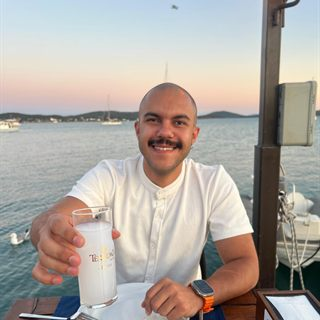
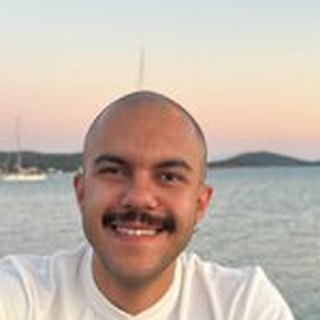
Fotoğraf düzeltmeleri; Anadolu Evrensel Ankara'da
- Emre Kaan Kocaman: içki bardağı kadraj dışında kalacak şekilde kırpıldı
- Asya Büyükerk: yüz kadrajda daha büyük ve tam
- Anadolu Evrensel Rotaract Kulübü'nün şehri Ankara olarak düzeltildi

diff --git a/js/data.js b/js/data.js
@@ -74,7 +74,7 @@ window.KULUPLER = [
     toplanti: T("Perşembe", "19:30", "Suit Ofis", "Ayın 2. ve 4. Perşembesi", { dil: "Türkçe" }) },
   { id: "cankaya", ad: "Çankaya Rotaract Kulübü", il: "Ankara", ilce: "Çankaya", grup: "1", baskan: "Fatih Acemoğlu", baskanFoto: "assets/foto/fatih-acemoglu.jpg", eposta: "fatihacemoglu1@gmail.com",
     toplanti: T("Perşembe", "19:30", "Workinton Next Level", "", { dil: "Türkçe", adres: "Kızılırmak Mah., 06510 Çankaya/Ankara" }) },
-  { id: "anadolu-evrensel", ad: "Anadolu Evrensel Rotaract Kulübü", il: "Eskişehir", ilce: "", grup: "1", baskan: "Zeynep Su Öncel", baskanFoto: "assets/foto/zeynep-su-oncel.jpg", eposta: "zeynepsuoncel@gmail.com",
+  { id: "anadolu-evrensel", ad: "Anadolu Evrensel Rotaract Kulübü", il: "Ankara", ilce: "", grup: "1", baskan: "Zeynep Su Öncel", baskanFoto: "assets/foto/zeynep-su-oncel.jpg", eposta: "zeynepsuoncel@gmail.com",
     toplanti: T("Pazar", "20:30", "Çevrim içi (Zoom)", "", { format: "Çevrim içi (Zoom)" }), instagram: "evrenselrotaract" },
 
   /* ---- 2. GRUP ---- */

diff --git a/en/index.html b/en/index.html
@@ -17,7 +17,7 @@
   <link rel="preconnect" href="https://fonts.googleapis.com">
   <link rel="preconnect" href="https://fonts.gstatic.com" crossorigin>
   <link href="https://fonts.googleapis.com/css2?family=Open+Sans:ital,wght@0,400;0,500;0,600;0,700;0,800;1,800&display=swap" rel="stylesheet">
-  <link rel="stylesheet" href="../css/style.css?v=20261122k">
+  <link rel="stylesheet" href="../css/style.css?v=20261122l">
 </head>
 <body>
 
@@ -385,10 +385,10 @@
   </div>
 </div>
 
-<script src="../js/data.js?v=20261122k"></script>
-<script src="../js/data-en.js?v=20261122k"></script>
-<script src="../js/harita.js?v=20261122k"></script>
-<script src="../js/etkinlik.js?v=20261122k"></script>
-<script src="../js/app.js?v=20261122k"></script>
+<script src="../js/data.js?v=20261122l"></script>
+<script src="../js/data-en.js?v=20261122l"></script>
+<script src="../js/harita.js?v=20261122l"></script>
+<script src="../js/etkinlik.js?v=20261122l"></script>
+<script src="../js/app.js?v=20261122l"></script>
 </body>
 </html>

diff --git a/index.html b/index.html
@@ -17,7 +17,7 @@
   <link rel="preconnect" href="https://fonts.googleapis.com">
   <link rel="preconnect" href="https://fonts.gstatic.com" crossorigin>
   <link href="https://fonts.googleapis.com/css2?family=Open+Sans:ital,wght@0,400;0,500;0,600;0,700;0,800;1,800&display=swap" rel="stylesheet">
-  <link rel="stylesheet" href="css/style.css?v=20261122k">
+  <link rel="stylesheet" href="css/style.css?v=20261122l">
 </head>
 <body>
 
@@ -385,9 +385,9 @@
   </div>
 </div>
 
-<script src="js/data.js?v=20261122k"></script>
-<script src="js/harita.js?v=20261122k"></script>
-<script src="js/etkinlik.js?v=20261122k"></script>
-<script src="js/app.js?v=20261122k"></script>
+<script src="js/data.js?v=20261122l"></script>
+<script src="js/harita.js?v=20261122l"></script>
+<script src="js/etkinlik.js?v=20261122l"></script>
+<script src="js/app.js?v=20261122l"></script>
 </body>
 </html>

diff --git a/en/konferans.html b/en/konferans.html
@@ -17,7 +17,7 @@
   <link rel="preconnect" href="https://fonts.googleapis.com">
   <link rel="preconnect" href="https://fonts.gstatic.com" crossorigin>
   <link href="https://fonts.googleapis.com/css2?family=Open+Sans:ital,wght@0,400;0,500;0,600;0,700;0,800;1,800&display=swap" rel="stylesheet">
-  <link rel="stylesheet" href="../css/style.css?v=20261122k">
+  <link rel="stylesheet" href="../css/style.css?v=20261122l">
 </head>
 <body data-org="konferans">
 
@@ -111,8 +111,8 @@
   </div>
 </div>
 
-<script src="../js/data.js?v=20261122k"></script>
-<script src="../js/data-en.js?v=20261122k"></script>
-<script src="../js/app.js?v=20261122k"></script>
+<script src="../js/data.js?v=20261122l"></script>
+<script src="../js/data-en.js?v=20261122l"></script>
+<script src="../js/app.js?v=20261122l"></script>
 </body>
 </html>

diff --git a/en/asamble.html b/en/asamble.html
@@ -17,7 +17,7 @@
   <link rel="preconnect" href="https://fonts.googleapis.com">
   <link rel="preconnect" href="https://fonts.gstatic.com" crossorigin>
   <link href="https://fonts.googleapis.com/css2?family=Open+Sans:ital,wght@0,400;0,500;0,600;0,700;0,800;1,800&display=swap" rel="stylesheet">
-  <link rel="stylesheet" href="../css/style.css?v=20261122k">
+  <link rel="stylesheet" href="../css/style.css?v=20261122l">
 </head>
 <body data-org="asamble">
 
@@ -111,8 +111,8 @@
   </div>
 </div>
 
-<script src="../js/data.js?v=20261122k"></script>
-<script src="../js/data-en.js?v=20261122k"></script>
-<script src="../js/app.js?v=20261122k"></script>
+<script src="../js/data.js?v=20261122l"></script>
+<script src="../js/data-en.js?v=20261122l"></script>
+<script src="../js/app.js?v=20261122l"></script>
 </body>
 </html>

diff --git a/en/kulupler.html b/en/kulupler.html
@@ -17,7 +17,7 @@
   <link rel="preconnect" href="https://fonts.googleapis.com">
   <link rel="preconnect" href="https://fonts.gstatic.com" crossorigin>
   <link href="https://fonts.googleapis.com/css2?family=Open+Sans:ital,wght@0,400;0,500;0,600;0,700;0,800;1,800&display=swap" rel="stylesheet">
-  <link rel="stylesheet" href="../css/style.css?v=20261122k">
+  <link rel="stylesheet" href="../css/style.css?v=20261122l">
 </head>
 <body>
 
@@ -155,8 +155,8 @@
   </div>
 </div>
 
-<script src="../js/data.js?v=20261122k"></script>
-<script src="../js/data-en.js?v=20261122k"></script>
-<script src="../js/app.js?v=20261122k"></script>
+<script src="../js/data.js?v=20261122l"></script>
+<script src="../js/data-en.js?v=20261122l"></script>
+<script src="../js/app.js?v=20261122l"></script>
 </body>
 </html>

diff --git a/konferans.html b/konferans.html
@@ -17,7 +17,7 @@
   <link rel="preconnect" href="https://fonts.googleapis.com">
   <link rel="preconnect" href="https://fonts.gstatic.com" crossorigin>
   <link href="https://fonts.googleapis.com/css2?family=Open+Sans:ital,wght@0,400;0,500;0,600;0,700;0,800;1,800&display=swap" rel="stylesheet">
-  <link rel="stylesheet" href="css/style.css?v=20261122k">
+  <link rel="stylesheet" href="css/style.css?v=20261122l">
 </head>
 <body data-org="konferans">
 
@@ -111,7 +111,7 @@
   </div>
 </div>
 
-<script src="js/data.js?v=20261122k"></script>
-<script src="js/app.js?v=20261122k"></script>
+<script src="js/data.js?v=20261122l"></script>
+<script src="js/app.js?v=20261122l"></script>
 </body>
 </html>

diff --git a/asamble.html b/asamble.html
@@ -17,7 +17,7 @@
   <link rel="preconnect" href="https://fonts.googleapis.com">
   <link rel="preconnect" href="https://fonts.gstatic.com" crossorigin>
   <link href="https://fonts.googleapis.com/css2?family=Open+Sans:ital,wght@0,400;0,500;0,600;0,700;0,800;1,800&display=swap" rel="stylesheet">
-  <link rel="stylesheet" href="css/style.css?v=20261122k">
+  <link rel="stylesheet" href="css/style.css?v=20261122l">
 </head>
 <body data-org="asamble">
 
@@ -111,7 +111,7 @@
   </div>
 </div>
 
-<script src="js/data.js?v=20261122k"></script>
-<script src="js/app.js?v=20261122k"></script>
+<script src="js/data.js?v=20261122l"></script>
+<script src="js/app.js?v=20261122l"></script>
 </body>
 </html>

diff --git a/kulupler.html b/kulupler.html
@@ -17,7 +17,7 @@
   <link rel="preconnect" href="https://fonts.googleapis.com">
   <link rel="preconnect" href="https://fonts.gstatic.com" crossorigin>
   <link href="https://fonts.googleapis.com/css2?family=Open+Sans:ital,wght@0,400;0,500;0,600;0,700;0,800;1,800&display=swap" rel="stylesheet">
-  <link rel="stylesheet" href="css/style.css?v=20261122k">
+  <link rel="stylesheet" href="css/style.css?v=20261122l">
 </head>
 <body>
 
@@ -155,7 +155,7 @@
   </div>
 </div>
 
-<script src="js/data.js?v=20261122k"></script>
-<script src="js/app.js?v=20261122k"></script>
+<script src="js/data.js?v=20261122l"></script>
+<script src="js/app.js?v=20261122l"></script>
 </body>
 </html>
